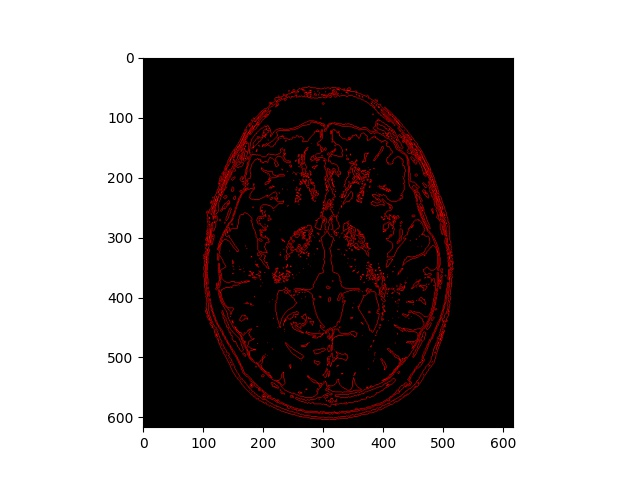
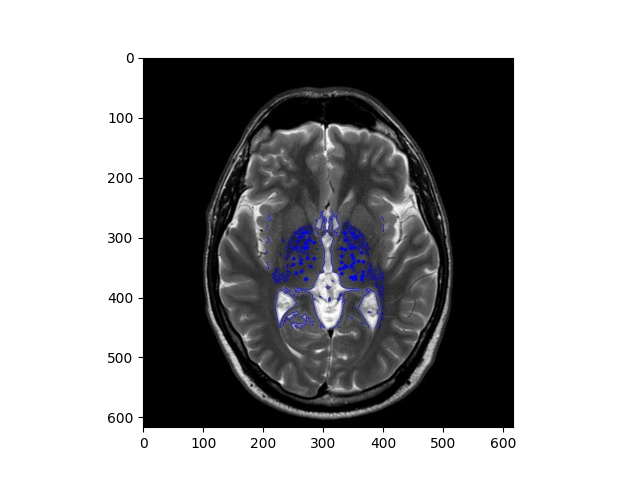
asd

Changed region(s): [[0.3125, 0.1562, 0.7188, 0.875]]

diff --git a/pintar.py b/pintar.py
@@ -1,26 +1,26 @@
-def rojo(img):
-    matriz = [ [ (0,0,0) for i in range(len(img)) ] for j in range(len(img)) ]
+def rojo(img2, img):
+    matriz = img2
     for i in range(0, len(img)):
         for j in range(0, len(img[0])):
             if i == 0 and j == 0: 
                 if img[i][j] == 0 and (img[i][j+1] == 1 or img[i+1][j] == 1):
-                    matriz[i][j] = (255,0,0)
+                    matriz[i][j] = (0,0,255)
 
             elif i == len(img) and j == len(img) - 1: 
                 if img[i][j] == 0 and (img[i][j-1] == 1 or img[i-1][j] == 1):
-                    matriz[i][j] = (255,0,0)
+                    matriz[i][j] = (0,0,255)
 
             elif i == 0 and j > 0 and j < len(img) - 1: 
                 if img[i][j] == 0 and (img[i][j+1] == 1 or img[i+1][j] == 1 or img[i][j-1] == 1):
-                    matriz[i][j] = (255,0,0)
+                    matriz[i][j] = (0,0,255)
 
             elif j == 0 and i > 0 and i < len(img) - 1: 
                 if img[i][j] == 0 and (img[i][j+1] == 1 or img[i+1][j] == 1 or img[i-1][j] == 1):
-                    matriz[i][j] = (255,0,0)
+                    matriz[i][j] = (0,0,255)
 
             elif i > 0 and i < len(img) - 1 and j > 0 and j < len(img) - 1: 
                 if img[i][j] == 0 and (img[i][j+1] == 1 or img[i+1][j] == 1 or img[i-1][j] == 1 or img[i][j-1] == 1):
-                    matriz[i][j] = (255,0,0)
+                    matriz[i][j] = (0,0,255)
 
     return matriz
 

diff --git a/flujo.py b/flujo.py
@@ -40,7 +40,7 @@ def tlinks(cap, meter, sacar, K):
     return link
  """       
 imgName = 'mri-brain.jpg'
-img2, img ,lista = corte.corte()
+ori_corte, img2, img ,lista = corte.corte()
 size= len(img)
 print(size)
 
@@ -95,6 +95,7 @@ W = np.array(W)
 g.add_grid_edges(nodeids, weights=W, structure=structure, symmetric=True)
 
 print(peso)
+
 KOBJ = K.puntos("SELECCIONE LOS PUNTOS DEL OBJETO",img2)
 KBKG = K.puntos("SELECCIONE LOS PUNTOS DEL FONDO",img2)
 
@@ -107,12 +108,12 @@ print(f"\n\nFlujo máximo: {flow}\n")
 
 sgm = g.get_grid_segments(nodeids) #False pertenece a S y True a T
 
-img2 = np.int_(sgm)
+cut = np.int_(sgm)
 
-img2 = pintar.rojo(img2)
-ppl.imshow(img2)
+cut = pintar.rojo(ori_corte, cut)
+ppl.imshow(cut)
 img=cv2.imread('mri-brain.jpg')
-img2 = corte.pegar(img,img2,lista)
+img2 = corte.pegar(img,ori_corte,lista)
 ppl.imshow(img2)
 #ppl.show()
 ppl.savefig("prueba.jpg")

diff --git a/corte.py b/corte.py
@@ -40,7 +40,7 @@ def corte():
     #cv2.imshow("Imagen recortada", crop_img)
     #cv2.waitKey(0)
 
-    return crop_img, crop_img_gris,l
+    return crop_img, crop_img, crop_img_gris,l
 
 #img,lista = corte()
 #print(lista)
